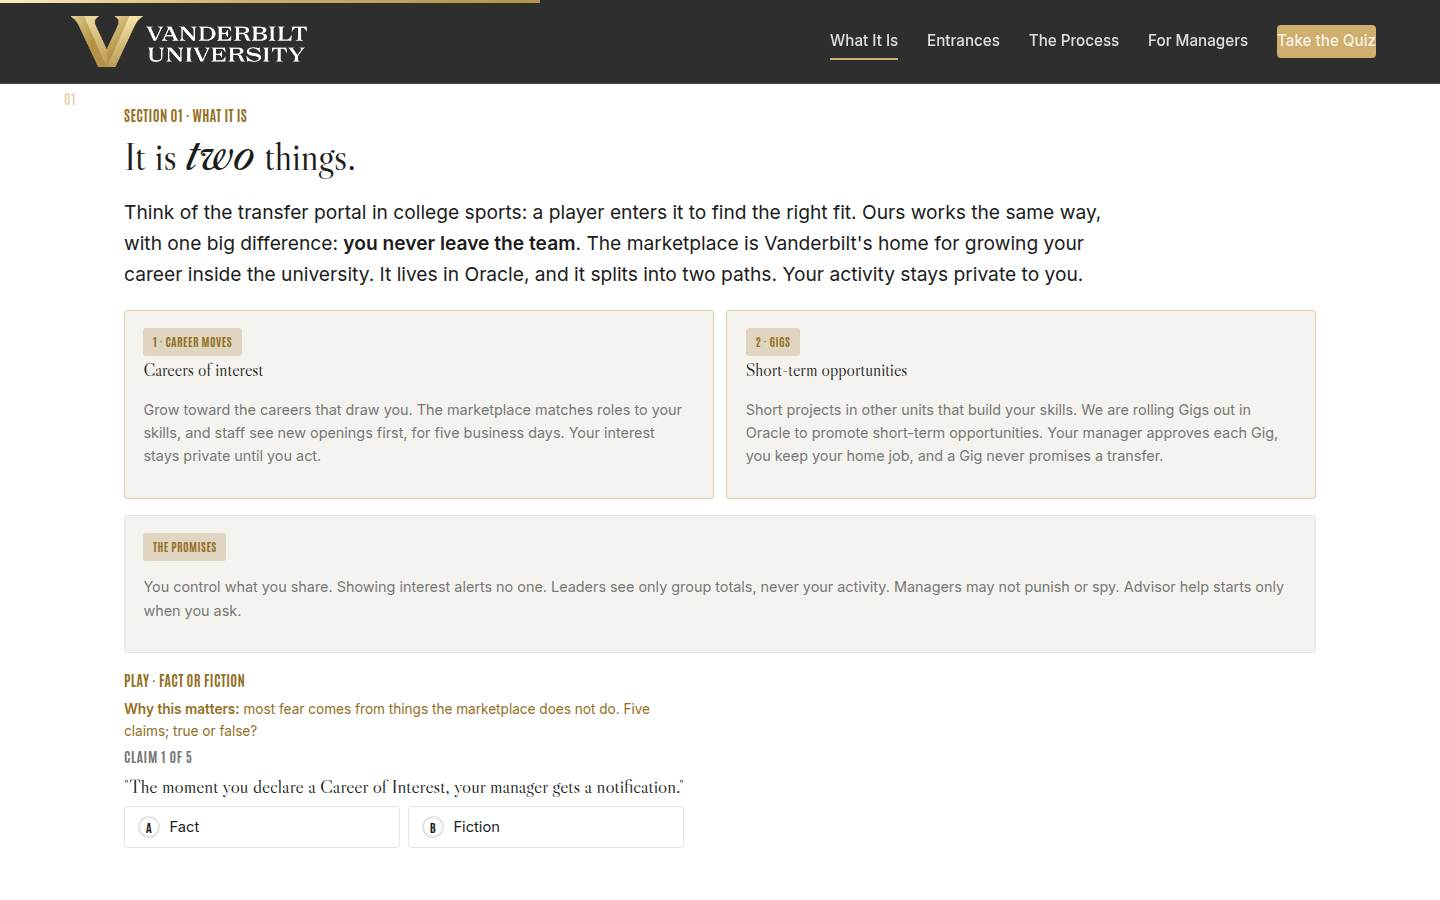
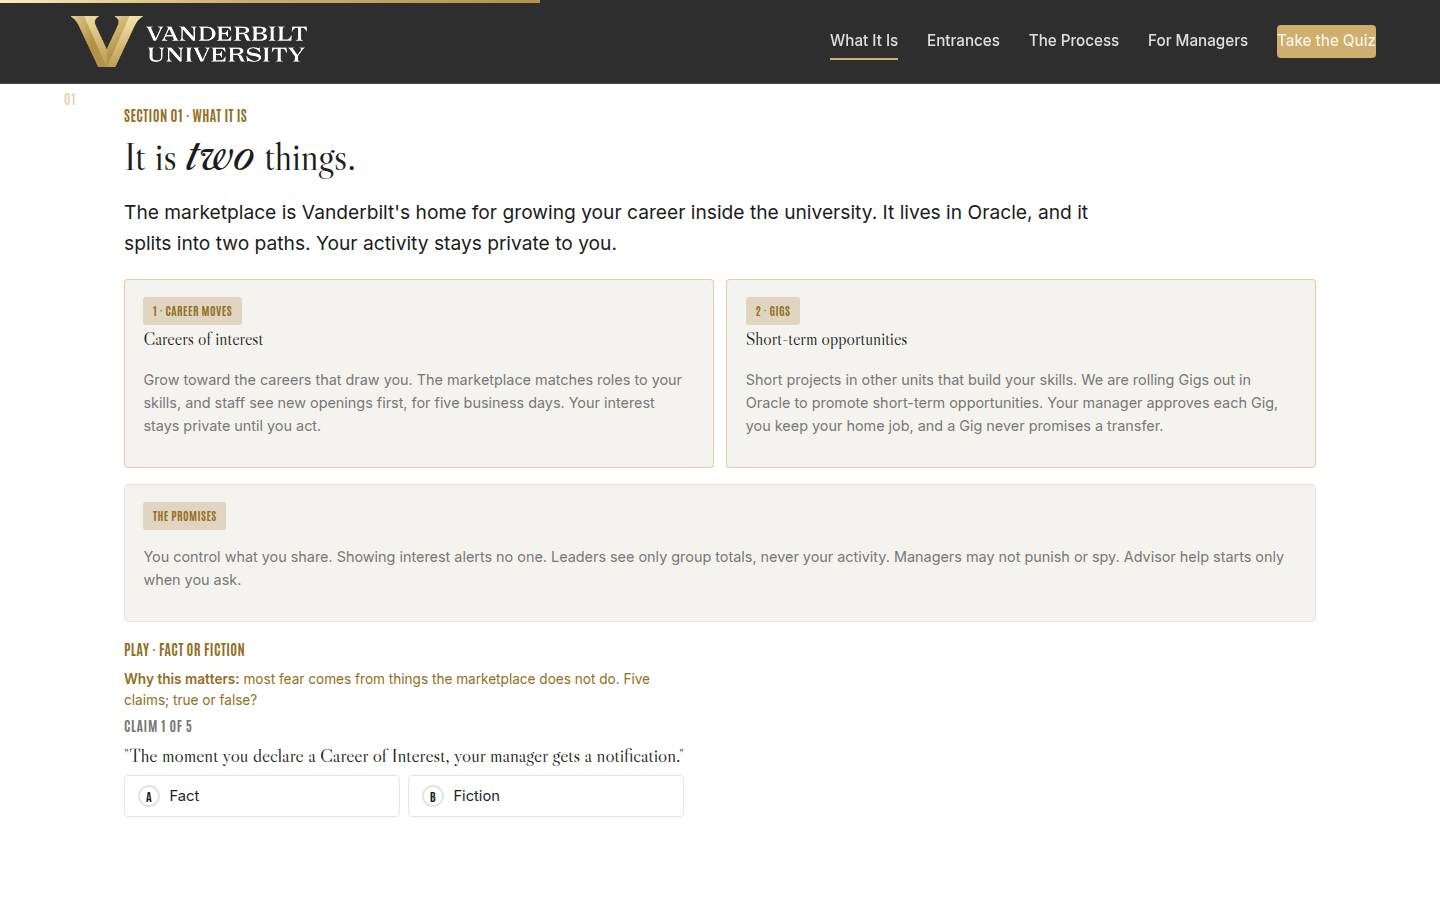
Remove the sports analogy everywhere
The hero returns to the growth-and-development lead, the idea band on
the program site is gone, and the course opening, facilitator script,
and quick reference drop the college sports comparison. Hidden talent
now gains your full skill set rather than your whole game.

Claude-Session: https://claude.ai/code/session_016tfiZ6XpMCwgGy8wFQJXa7

Changed region(s): [[0.0938, 0.2178, 0.875, 0.6844], [0.0625, 0.7156, 0.4688, 0.9333]]

diff --git a/facilitator/index.html b/facilitator/index.html
@@ -335,7 +335,7 @@ body.fac-hide .facshow { display: inline-flex; }
     <div class="wrap">
       <p class="eyebrow" data-reveal>Section 01 · What It Is</p>
       <h2 class="h2" data-reveal>It is <em>two</em> things.</h2>
-      <p class="lead" data-reveal>Think of the transfer portal in college sports: a player enters it to find the right fit. Ours works the same way, with one big difference: <b>you never leave the team</b>. The marketplace is Vanderbilt's home for growing your career inside the university. It lives in Oracle, and it splits into two paths. Your activity stays private to you.</p>
+      <p class="lead" data-reveal>The marketplace is Vanderbilt's home for growing your career inside the university. It lives in Oracle, and it splits into two paths. Your activity stays private to you.</p>
 
       <div class="grid grid-3" style="margin-top:1.25rem;grid-template-columns:repeat(auto-fit,minmax(280px,1fr))">
         <div class="card" data-reveal style="border-color:rgba(207,174,112,.55)">
@@ -383,7 +383,7 @@ body.fac-hide .facshow { display: inline-flex; }
         </div>
       </details>
     </div>
-    <aside class="facnote" aria-label="Facilitator notes"><div class="facnote__head"><span>Facilitator script</span><span class="facnote__time">Full 1 min · Core 1</span><button class="facnote__hide" type="button" aria-label="Hide the facilitator script">Hide</button></div><p class="facnote__purpose">Land the simple model: one marketplace, two paths (career moves and Gigs), and the promises that make it safe.</p><div class="facnote__blk"><span class="facnote__tag t-say">Say</span><p class="facnote__script">&ldquo;Start with the idea. In college sports, a player enters the transfer portal to find the right fit. Ours has one difference: you never leave the team. So what is it? Two things, one marketplace. Path one: careers of interest. Name where you want to grow, build toward it, and see openings before the public does. Path two: Gigs. Short projects in other units that build your skills; we are rolling Gigs out in Oracle to promote short-term opportunities. Both live in Oracle, both stay private until you act, and leaders only ever see group totals. Now the game: five claims, true or false.&rdquo;</p></div><div class="facnote__blk"><span class="facnote__tag t-do">Do</span><ol class="facnote__steps"><li>The two path cards, one breath each: career moves, then Gigs.</li><li>Read the promises card once, slowly.</li><li>Run Fact or Fiction as a fast room vote, hands for A or B.</li></ol></div><p class="facnote__meta"><b>Validate:</b> 4+ of 5 on the trainer.</p><p class="facnote__meta"><b>Watch for:</b> Privacy skepticism; point at the mechanics (no notifications, aggregate-only) and move on. If Gigs come up: they have not launched yet, teach the concept and flag that timing is to be announced.</p><div class="facnote__blk"><span class="facnote__tag t-tra">Transition</span><p class="facnote__script">&ldquo;Which door is yours? There are six.&rdquo;</p></div><p class="facnote__meta facnote__core"><b>60-min core:</b> Core: same minute; the trainer carries it.</p></aside>
+    <aside class="facnote" aria-label="Facilitator notes"><div class="facnote__head"><span>Facilitator script</span><span class="facnote__time">Full 1 min · Core 1</span><button class="facnote__hide" type="button" aria-label="Hide the facilitator script">Hide</button></div><p class="facnote__purpose">Land the simple model: one marketplace, two paths (career moves and Gigs), and the promises that make it safe.</p><div class="facnote__blk"><span class="facnote__tag t-say">Say</span><p class="facnote__script">&ldquo;What is it? Two things, one marketplace. Path one: careers of interest. Name where you want to grow, build toward it, and see openings before the public does. Path two: Gigs. Short projects in other units that build your skills; we are rolling Gigs out in Oracle to promote short-term opportunities. Both live in Oracle, both stay private until you act, and leaders only ever see group totals. Now the game: five claims, true or false.&rdquo;</p></div><div class="facnote__blk"><span class="facnote__tag t-do">Do</span><ol class="facnote__steps"><li>The two path cards, one breath each: career moves, then Gigs.</li><li>Read the promises card once, slowly.</li><li>Run Fact or Fiction as a fast room vote, hands for A or B.</li></ol></div><p class="facnote__meta"><b>Validate:</b> 4+ of 5 on the trainer.</p><p class="facnote__meta"><b>Watch for:</b> Privacy skepticism; point at the mechanics (no notifications, aggregate-only) and move on. If Gigs come up: they have not launched yet, teach the concept and flag that timing is to be announced.</p><div class="facnote__blk"><span class="facnote__tag t-tra">Transition</span><p class="facnote__script">&ldquo;Which door is yours? There are six.&rdquo;</p></div><p class="facnote__meta facnote__core"><b>60-min core:</b> Core: same minute; the trainer carries it.</p></aside>
   </section>
 
   

diff --git a/program.html b/program.html
@@ -169,7 +169,7 @@
       <div>
         <p class="eyebrow">The Talent Marketplace · Vanderbilt · People, Culture and Belonging</p>
         <h1>What is the Talent <em>Marketplace</em>?</h1>
-        <p class="lead" style="margin-top:1.25rem">In college sports, a player enters the transfer portal to find the right fit. This is Vanderbilt's version for staff, with one difference: <b>you never leave the team</b>. It is your home for growth and development; build your skills, so that when an opportunity arises, you are ready to pursue it.</p>
+        <p class="lead" style="margin-top:1.25rem">It is Vanderbilt's home for your growth and development. Explore careers of interest or take on short-term opportunities; either way, you are developing your skills, so that when an opportunity arises, you are ready to pursue it.</p>
         <div class="cta">
           <a class="btn" href="web/">Take the 15-minute training</a>
           <a class="btn btn--ghost" href="https://vanderbilttalentcompass.vercel.app/">Open the marketplace tool</a>
@@ -184,20 +184,6 @@
           <li><b>Pursue the opportunity.</b> When one arises, you will be ready.</li>
         </ul>
       </aside>
-    </div>
-  </section>
-
-  <!-- THE NAME -->
-  <section class="band-light" id="name">
-    <div class="wrap">
-      <p class="eyebrow">The idea</p>
-      <h2>Like college sports, with one <em>difference</em>.</h2>
-      <p class="lead">A player enters the transfer portal to find a place to use their whole game and keep growing. Ours works the same way. Explore careers of interest or take on short-term opportunities; either way, you are developing your skills, and those skills stay at Vanderbilt.</p>
-      <div class="cards">
-        <div class="card"><span class="tag">You are the player</span><p>Your skills are your game. Keep them sharp and on the record in Oracle.</p></div>
-        <div class="card"><span class="tag">Your manager is your coach</span><p>Talk about where you want to grow, and train toward it together.</p></div>
-        <div class="card"><span class="tag">Every day is the season</span><p>Develop now, so that when your moment arises, you are ready.</p></div>
-      </div>
     </div>
   </section>
 
@@ -278,7 +264,7 @@
         <div class="card card--gold">
           <span class="tag">3 · Hidden talent</span>
           <h3>"I'm great at my job, and I can offer more."</h3>
-          <p>Your role does not use everything you can do. Tag your real skills, then lend them through short-term opportunities. The university gains your whole game, and your home job stays yours.</p>
+          <p>Your role does not use everything you can do. Tag your real skills, then lend them through short-term opportunities. The university gains your full skill set, and your home job stays yours.</p>
         </div>
       </div>
     </div>

diff --git a/facilitator/guide.html b/facilitator/guide.html
@@ -138,7 +138,7 @@
     <div class="sec__notes">
     <h2>01 · What it is <span class="mins">Full 1 min · Core 1</span></h2>
     <p class="purpose">Land the simple model: one marketplace, two paths (career moves and Gigs), and the promises that make it safe.</p>
-    <p class="tagline say">Say</p><p class="script">&ldquo;Start with the idea. In college sports, a player enters the transfer portal to find the right fit. Ours has one difference: you never leave the team. So what is it? Two things, one marketplace. Path one: careers of interest. Name where you want to grow, build toward it, and see openings before the public does. Path two: Gigs. Short projects in other units that build your skills; we are rolling Gigs out in Oracle to promote short-term opportunities. Both live in Oracle, both stay private until you act, and leaders only ever see group totals. Now the game: five claims, true or false.&rdquo;</p>
+    <p class="tagline say">Say</p><p class="script">&ldquo;What is it? Two things, one marketplace. Path one: careers of interest. Name where you want to grow, build toward it, and see openings before the public does. Path two: Gigs. Short projects in other units that build your skills; we are rolling Gigs out in Oracle to promote short-term opportunities. Both live in Oracle, both stay private until you act, and leaders only ever see group totals. Now the game: five claims, true or false.&rdquo;</p>
     <p class="tagline">Do</p><ol><li>The two path cards, one breath each: career moves, then Gigs.</li><li>Read the promises card once, slowly.</li><li>Run Fact or Fiction as a fast room vote, hands for A or B.</li></ol>
     
     

diff --git a/cheatsheet.html b/cheatsheet.html
@@ -63,7 +63,7 @@
   <div class="grid">
     <div class="box full">
       <h2>What it is</h2>
-      <p class="prompt">Like the transfer portal in college sports, with one difference: you never leave the team. It is Vanderbilt's home for your growth and development, powered by Oracle. Inside: Careers of Interest, your skills profile, Grow plans, Gigs (short-term projects, rolling out now), internal openings (staff see them first for five business days), and advisory support. Leaders see aggregated, privacy-preserving data through Workforce Intelligence.</p>
+      <p class="prompt">Vanderbilt's home for your growth and development, powered by Oracle. Inside: Careers of Interest, your skills profile, Grow plans, Gigs (short-term projects, rolling out now), internal openings (staff see them first for five business days), and advisory support. Leaders see aggregated, privacy-preserving data through Workforce Intelligence.</p>
     </div>
 
     <div class="box">

diff --git a/index.html b/index.html
@@ -236,7 +236,7 @@
     <div class="wrap">
       <p class="eyebrow" data-reveal>Section 01 · What It Is</p>
       <h2 class="h2" data-reveal>It is <em>two</em> things.</h2>
-      <p class="lead" data-reveal>Think of the transfer portal in college sports: a player enters it to find the right fit. Ours works the same way, with one big difference: <b>you never leave the team</b>. The marketplace is Vanderbilt's home for growing your career inside the university. It lives in Oracle, and it splits into two paths. Your activity stays private to you.</p>
+      <p class="lead" data-reveal>The marketplace is Vanderbilt's home for growing your career inside the university. It lives in Oracle, and it splits into two paths. Your activity stays private to you.</p>
 
       <div class="grid grid-3" style="margin-top:1.25rem;grid-template-columns:repeat(auto-fit,minmax(280px,1fr))">
         <div class="card" data-reveal style="border-color:rgba(207,174,112,.55)">

diff --git a/web/index.html b/web/index.html
@@ -216,7 +216,7 @@
     <div class="wrap">
       <p class="eyebrow" data-reveal>Section 01 · What It Is</p>
       <h2 class="h2" data-reveal>It is <em>two</em> things.</h2>
-      <p class="lead" data-reveal>Think of the transfer portal in college sports: a player enters it to find the right fit. Ours works the same way, with one big difference: <b>you never leave the team</b>. The marketplace is Vanderbilt's home for growing your career inside the university. It lives in Oracle, and it splits into two paths. Your activity stays private to you.</p>
+      <p class="lead" data-reveal>The marketplace is Vanderbilt's home for growing your career inside the university. It lives in Oracle, and it splits into two paths. Your activity stays private to you.</p>
 
       <div class="grid grid-3" style="margin-top:1.25rem;grid-template-columns:repeat(auto-fit,minmax(280px,1fr))">
         <div class="card" data-reveal style="border-color:rgba(207,174,112,.55)">
